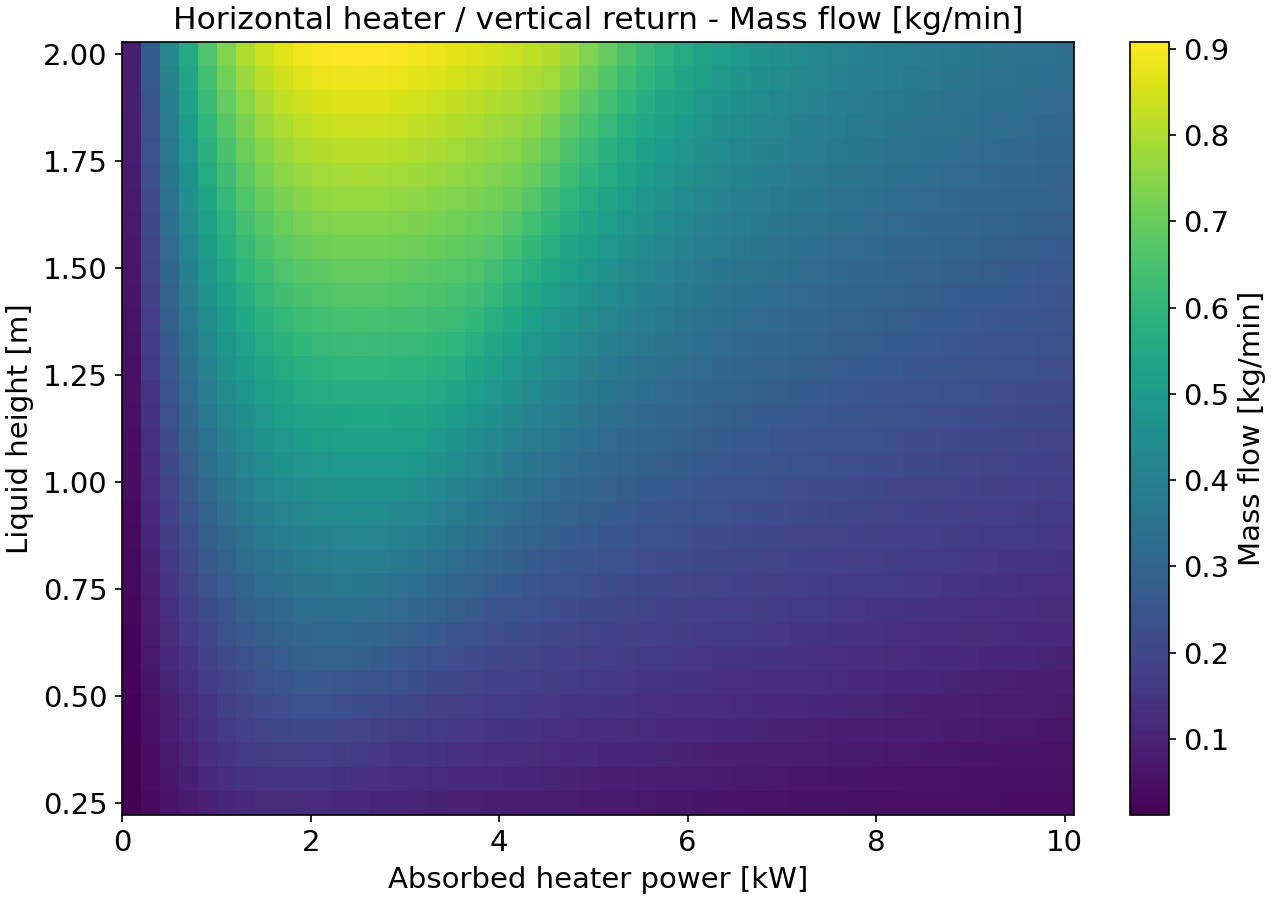
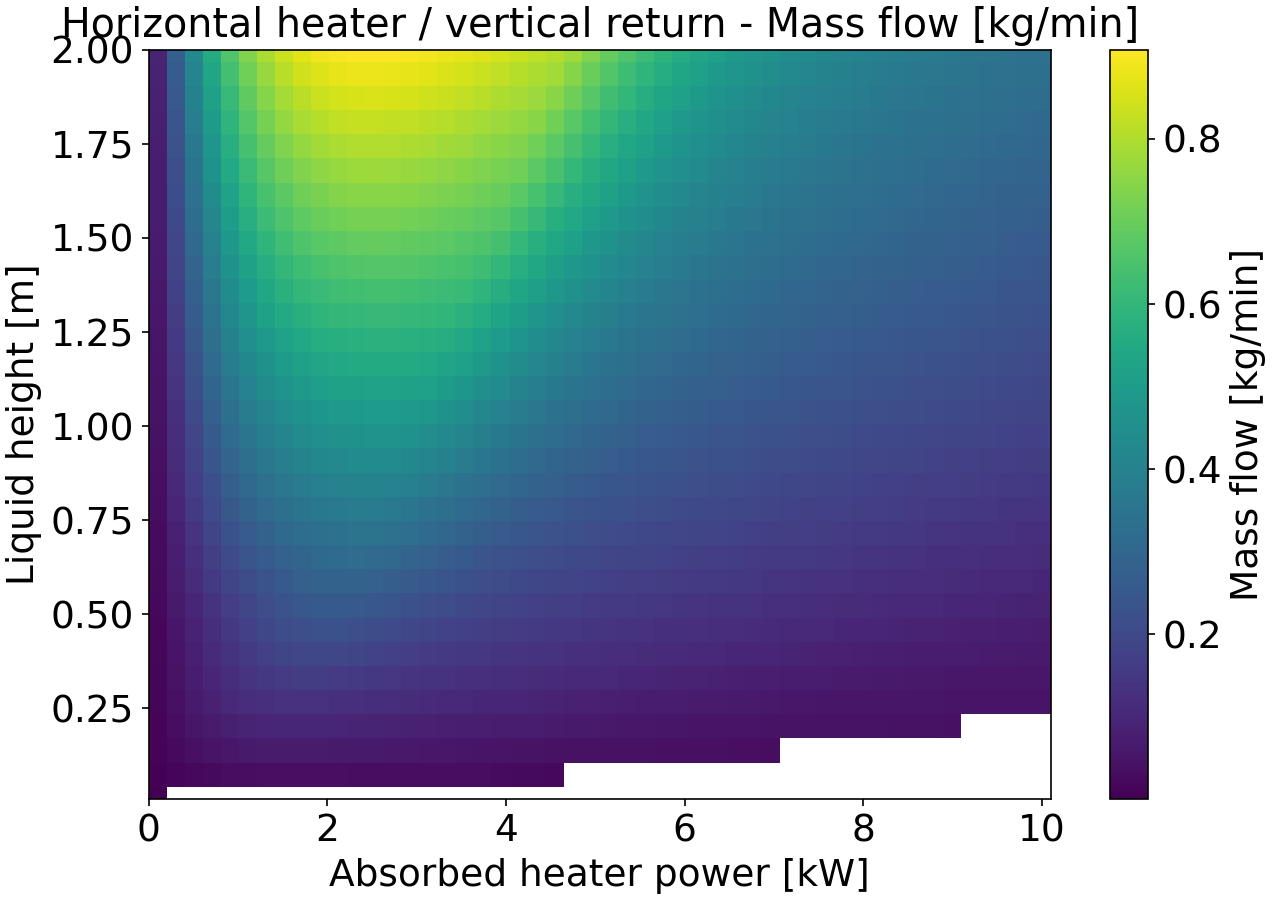
Larger plot fonts, legends outside scenario plots, drop failed-points titles; refresh results

Changed region(s): [[0.0, 0.0, 1.0, 0.9956], [0.3671, 0.1556, 0.4282, 0.1867]]

diff --git a/python/plot_vaporizer_results.py b/python/plot_vaporizer_results.py
@@ -11,7 +11,7 @@ import numpy as np
 from scipy.io import loadmat
 
 RESULTS = Path(__file__).resolve().parent.parent / "results"
-plt.rcParams.update({"font.size": 14, "axes.titlesize": 15, "legend.fontsize": 12})
+plt.rcParams.update({"font.size": 18, "axes.titlesize": 19, "legend.fontsize": 14})
 
 
 def load_results(path):
@@ -55,7 +55,7 @@ def plot_scenario(kind, directory=RESULTS):
     colors = plt.get_cmap("tab10")
     context = (f"prescribed volume fill {100*float(s['SOC0']):g}% to {100*float(s['SOC1']):g}%"
                if kind == "SOC" else f"constant height {float(s['H_const']):.2f} m")
-    fig, axes = plt.subplots(2, 1, figsize=(9, 7), constrained_layout=True)
+    fig, axes = plt.subplots(2, 1, figsize=(13, 8), constrained_layout=True)
     fig.suptitle(f"LH2 vaporizer - {context}", fontweight="bold")
     if kind == "SOC":
         axes[0].plot(t, 100*np.atleast_1d(s["SOC"]), color="black")
@@ -70,17 +70,16 @@ def plot_scenario(kind, directory=RESULTS):
         axes[1].plot(t, q[:, k], color=colors(k % 10), label=label)
     decorate(axes[1], "Time [min]", "Absorbed heater power [kW]", "Shared power schedules")
     axes[1].margins(y=0.08)  # Autoscaling includes every case, including constant power.
-    axes[1].legend()
+    fig.legend(*axes[1].get_legend_handles_labels(), loc="outside right center")
     outputs = [save(fig, directory, f"{kind}_scenario_drivers")]
-    fig, axes = plt.subplots(2, 1, figsize=(9, 7), constrained_layout=True)
+    fig, axes = plt.subplots(2, 1, figsize=(13, 8), constrained_layout=True)
     fig.suptitle(f"LH2 vaporizer - {context}", fontweight="bold")
     for k, label in enumerate(labels):
         axes[0].plot(t, mdot[:, k], color=colors(k % 10), label=label)
         axes[1].plot(t, tout[:, k], color=colors(k % 10), label=label)
     decorate(axes[0], "Time [min]", "Mass flow [kg/min]", "Circulation through the heater")
     decorate(axes[1], "Time [min]", "Outlet temperature [K]", "Heater outlet / adiabatic return")
-    for ax in axes:
-        ax.legend()
+    fig.legend(*axes[0].get_legend_handles_labels(), loc="outside right center")
     outputs.append(save(fig, directory, f"{kind}_scenario_mdot_Tout"))
     return outputs
 

diff --git a/output/vap_plot_results.m b/output/vap_plot_results.m
@@ -37,7 +37,7 @@ elseif strcmp(kind,'power_decay')
     sgtitle('Quasi-steady power decay; imposed pressure and inlet temperature');
     savefig_png(f,figDir,'power_decay_transient');
 else
-    f=figure('Color','w','Position',[100 100 900 750]); tiledlayout(2,1);
+    f=figure('Color','w','Position',[100 100 1300 800]); tiledlayout(2,1);
     nexttile;
     if strcmp(kind,'SOC')
         yyaxis left; plot(S.tmin,100*S.SOC); ylabel('Volume fill [%]');
@@ -47,19 +47,21 @@ else
     end
     xlabel('Time [min]'); grid on; title('Prescribed liquid level');
     nexttile; plot(S.tmin,S.Qdot/1e3,'LineWidth',1.5); grid on;
-    xlabel('Time [min]'); ylabel('Absorbed heater power [kW]'); legend(S.labels,'Location','best');
+    xlabel('Time [min]'); ylabel('Absorbed heater power [kW]');
+    lgd=legend(S.labels); lgd.Layout.Tile='east';
     sgtitle([kind ' scenario drivers']);
     savefig_png(f,figDir,[kind '_scenario_drivers']);
-    f=figure('Color','w','Position',[100 100 900 750]); tiledlayout(2,1);
+    f=figure('Color','w','Position',[100 100 1300 800]); tiledlayout(2,1);
     nexttile; plot(S.tmin,60*S.mdot,'LineWidth',1.5); ylabel('Mass flow [kg/min]');
-    xlabel('Time [min]'); grid on; legend(S.labels,'Location','best');
+    xlabel('Time [min]'); grid on;
+    lgd=legend(S.labels); lgd.Layout.Tile='east';
     nexttile; plot(S.tmin,S.T_out,'LineWidth',1.5); ylabel('Outlet temperature [K]');
-    xlabel('Time [min]'); grid on; legend(S.labels,'Location','best');
-    sgtitle(sprintf('%s scenario (failed points: %d)',kind,S.failed_count));
+    xlabel('Time [min]'); grid on;
+    sgtitle([kind ' scenario']);
     savefig_png(f,figDir,[kind '_scenario_mdot_Tout']);
 end
 end
 function savefig_png(f,dir,name)
-fontsize(f,14,'points');
+fontsize(f,18,'points');
 print(f,fullfile(dir,[name '.png']),'-dpng','-r150'); close(f);
 end

diff --git a/model/vap_default_params.m b/model/vap_default_params.m
@@ -26,7 +26,7 @@ p.K_g = 6.0;
 p.Qdot_ref = 6e3;          % [W] documented approximate field comparison
 p.STM_mdot_annotation = 0.30/60; % [kg/s] comparison only, not solver input
 
-p.H_list = linspace(0.25, 2.0, 32);
+p.H_list = linspace(0.01, 2.0, 32);
 p.Qdot_list = linspace(0.1, 10, 50)*1e3;
 % Identical power schedules isolate the effect of height between scenarios.
 p.scenario_t_end = 90*60;
